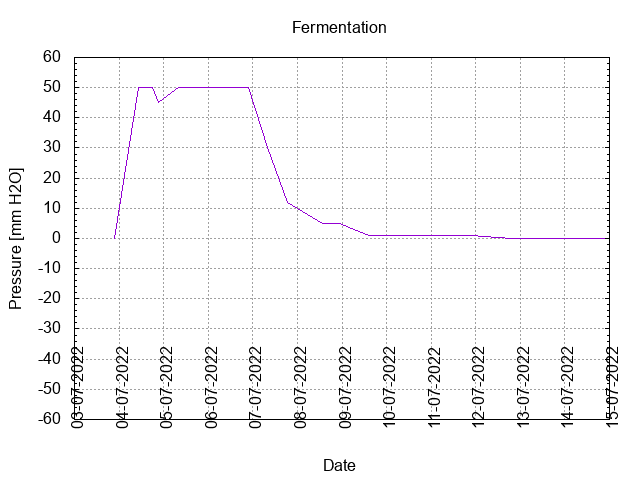
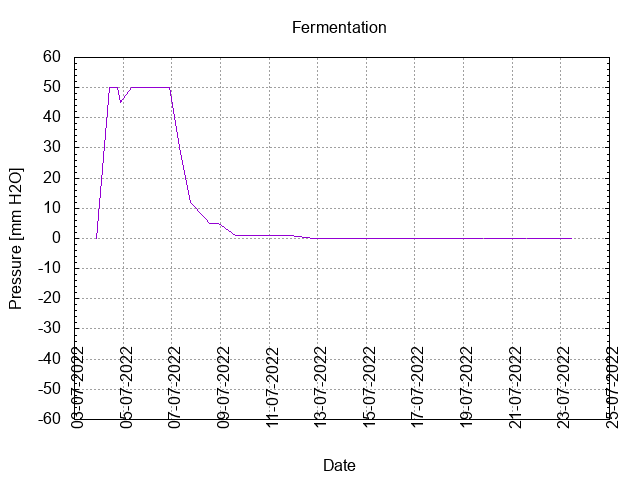
Updated batch 19.

diff --git a/docs/homebrewing/batches/batch_19/README.md b/docs/homebrewing/batches/batch_19/README.md
@@ -6,7 +6,7 @@
 
 03-07-2022 21:30 Start fermentation.
 
-Start conditioning.
+23-07-2022 10:30 Start conditioning.
 
 Completed conditioning.
 
@@ -33,21 +33,21 @@ Archived.
 | Pre-Boil Volume:        | 7.76   | 8.0   | +0.24  | L    |
 | Post-Boil Volume (HOT): | 5.96   | 6.5   | +0.54  | L    |
 | Boil Off per Hour:      | 1.8    | 1.5   | -0.3   | L    |
-| Batch Volume:           | 5.6    |       |        | L    |
+| Batch Volume:           | 5.6    | 5.0   | -0.6   | L    |
 | Trub/Chiller Loss:      | 0.12   | 1.24  | +1.12  | L    |
-| Bottling Volume:        | 5      |       |        | L    |
+| Bottling Volume:        | 5      | 3.96  | -1.04  | L    |
 | Pre-Boil Gravity:       | 1.046  | 1.038 | -0.008 |      |
 | Post-Boil Gravity:      | 1.070  | 1.060 | -0.010 |      |
 | Original Gravity:       | 1.070  | 1.060 | -0.010 |      |
 | Total Gravity:          | 1.073  | 1.063 | -0.010 |      |
-| Final Gravity:          | 1.007  |       |        |      |
-| Alcohol By Volume:      | 8.7    |       |        | %    |
-| Apparent Attenuation:   | 89.9   |       |        | %    |
+| Final Gravity:          | 1.007  | 1.004 | -0.003 |      |
+| Alcohol By Volume:      | 8.7    | 7.9   | -0.8   | %    |
+| Apparent Attenuation:   | 89.9   | 93.4  | +3.5   | %    |
 | Mash Efficiency:        | 73     | 62    | -11    | %    |
 | Brewhouse Efficiency:   | 72     | 55    | -17    | %    |
 | IBU:                    | 29     | 29    | 0      |      |
 | BU/GU Ratio:            | 0.40   | 0.45  | +0.05  |      |
-| RB Ratio:               | 0.45   | 0.52  | +0.07  |      |
+| RB Ratio:               | 0.45   | 0.53  | +0.08  |      |
 | Color                   | 7.9    | 7.3   | -0.6   | EBC  |
 | Mash pH:                | 5.38   | 5.30  | -0.08  |      |
 
@@ -56,7 +56,7 @@ Archived.
 | No. | Date       | Age | Score | Notes |
 |-----|------------|-----|-------|-------|
 |     | 03-07-2022 |   0 |       | Brew day. |
-|     |            |     |       | Bottling day. |
+|     | 23-07-2022 |  20 |       | Bottling day. |
 |   1 |            |     |       |  |
 |   2 |            |     |       |  |
 |   3 |            |     |       |  |
@@ -69,7 +69,3 @@ Archived.
 |  10 |            |     |       |  |
 |  11 |            |     |       |  |
 |  12 |            |     |       |  |
-|  13 |            |     |       |  |
-|  14 |            |     |       |  |
-|  15 |            |     |       |  |
-|  16 |            |     |       |  |
